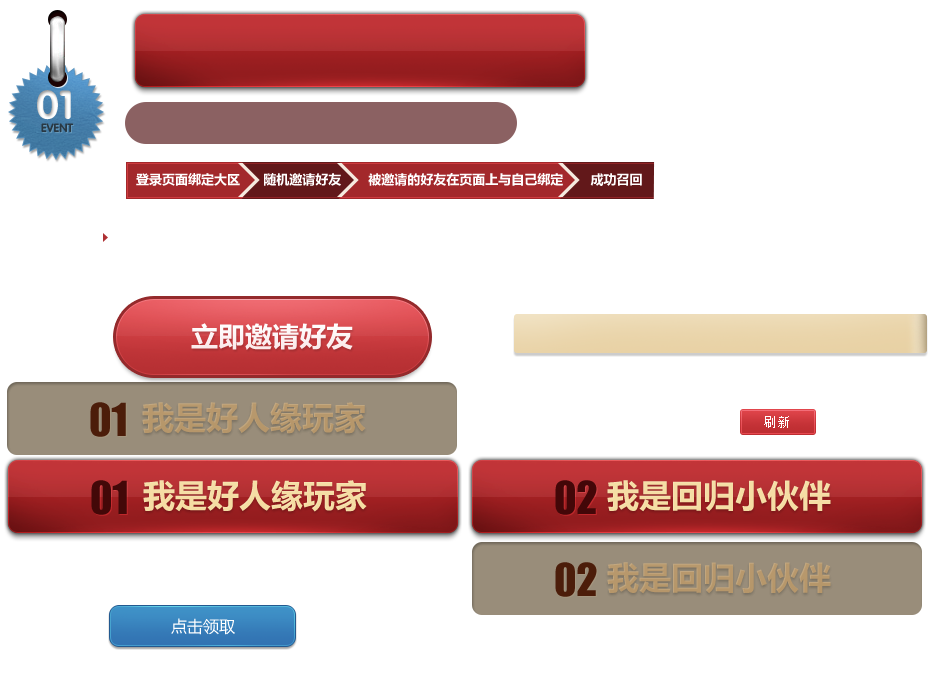
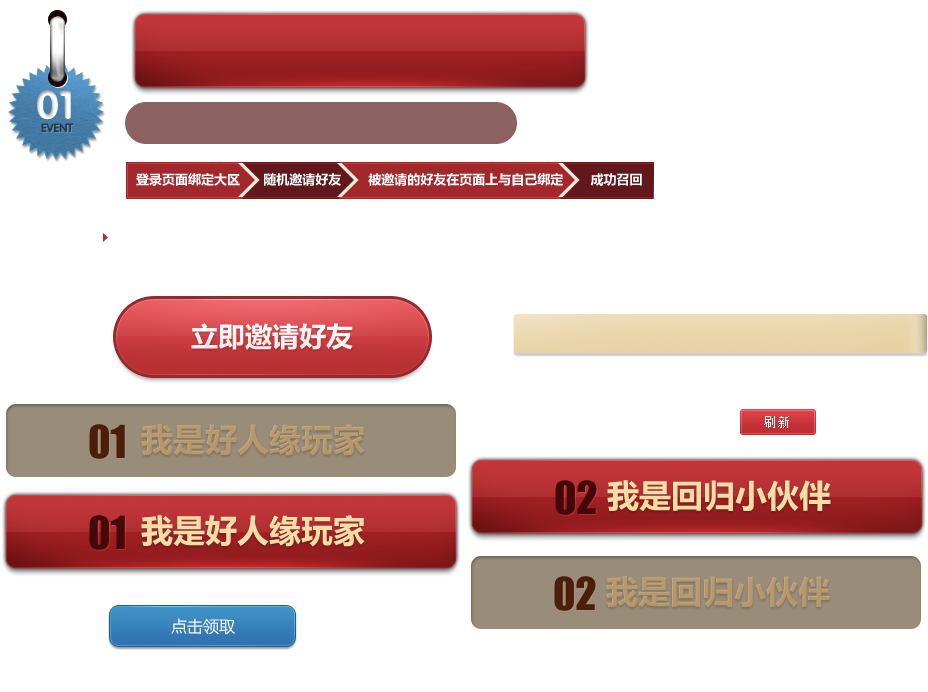
index.html
QQ炫舞人缘大比拼页面重构

Changed region(s): [[0.0, 0.5462, 1.0, 0.9104]]

diff --git a/qqdancer/css/style.css b/qqdancer/css/style.css
@@ -55,7 +55,9 @@
 }
 
 .public-header {
-	float: left;
+	position: absolute;
+	top: 0;
+	left: 0;
 	width: 100%;
 	height: 41px;
 	background-image: url(../images/pulbic-header.jpg);
@@ -65,7 +67,6 @@
 
 .public-footer {
 	position: absolute;
-	*position:static;
 	bottom: 0;
 	width: 100%;
 	height: 108px;
@@ -98,28 +99,8 @@
 	overflow: hidden;
 }
 
-.head-title-text {
-	margin-top: -6px;
-	text-align: center;
-	font-size: 34px;
-	font-weight: bold;
-	letter-spacing: 2px;
-	color: #4b0f11;
-}
-
-.head-title-text .line {
-	display: inline-block;
-	width: 233px;
-	vertical-align: middle;
-	border: 0.1px solid #440e0f;
-}
-
-.head-title-text .txt {
-	margin:0 15px;
-}
-
 .head-title-logo {
-	margin-top: 24px;
+	margin-top: 60px;
 }
 
 .head-title-logo img{
@@ -147,9 +128,11 @@
 	color: #fcf6db;
 }
 
+.btn {
+	position: relative;
+}
+
 .btn1,.btn2 {
-	display: inline-block;
-	margin-top: 18px;
 	width: 264px;
 	height: 75px;
 	text-align: center;
@@ -158,14 +141,15 @@
 }
 
 .btn1 {
+	margin-top: 18px;
 	margin-left: 199px;	
 	background-image: url(../images/btn1.png);
 }
 
-
-
 .btn2 {
-	margin-left: 79px;
+	float: right;
+	*margin-top: 18px;
+	margin-right: 199px;
 	background-image: url(../images/btn2.png);
 }
 
@@ -208,38 +192,41 @@
 .box-head > .box-head-left,.box-head > .box-head-right {
 	position: absolute;
 	margin-top: 18px;	
-	width: 451px;
-	height: 74px;
-	font-size: 30px;
-	font-weight: bold;
-	line-height: 74px;
-	color: #b8986d;
-	text-align: center;
-	background-color: rgba(0,0,0,0.4) !important;
-	filter:progid:DXImageTransform.Microsoft.gradient(startColorstr=#4c000000,endColorstr=#4c000000)\9;
-	border-radius: 10px;
+	width: 458px;
+	height: 86px;
 }
 
 .box-head > .box-head-left {
 	margin-left: 20px;
+	background-image: url(../images/icon1.png);
+	background-repeat: no-repeat;
+	background-position: -6px -404px;
 }
 
 .box-head > .box-head-right {
 	right: 0;
 	margin-right: 22px;
+	background-image: url(../images/icon1.png);
+	background-repeat: no-repeat;
+	background-position: -471px -556px;
 }
 
-.box-head .box-head-num {
-	color: #430708;
-}
-
-.btn-change {
-	color: #f5dda5 !important;
-	width: 458px;
-	height: 86px;
+.btn-change1 {
+	margin-left: 16px !important;
+	margin-top: 15px !important;
+	width: 458px !important;
+	height: 86px !important;
 	background-image: url(../images/icon1.png) !important;
-	background-repeat: no-repeat !important;
-	background-position: -134px -14px !important;
+	background-position: -2px -491px !important;
+}
+
+.btn-change2 {
+	margin-right: 26px !important;
+	margin-top: 15px !important;
+	width: 458px !important;
+	height: 86px !important;
+	background-image: url(../images/icon1.png) !important;
+	background-position: -468px -456px !important;
 }
 
 /*选项1*/
@@ -453,7 +440,7 @@
 }
 
 .dianj > .dianj-left {
-	display: inline-block;
+	display: block;
 	margin-left: 90px;
 	width: 87px;
 	height: 64px;	
@@ -463,9 +450,9 @@
 }
 
 .dianj > .dianj-right {
-	display: inline-block;
-	margin-left: 45px;
-	margin-bottom: 12px;
+	float: right;
+	margin-top: 15px;
+	margin-right: 170px;
 	width: 116px;
 	height: 40px;
 	background-image: url(../images/icon2.png);
@@ -474,13 +461,14 @@
 }
 
 .main2-right-right > .box2 {
+	position: relative;
 	margin-left: -8px;
 	margin-top: 20px;
 	width: 550px;
 }
 
 .box2-pic1, .box2-pic2, .box2-pic3 {
-	display: inline-block;
+	float: left;
 	margin-right: 16px;
 	width: 147px;
 	height: 115px;
@@ -501,6 +489,7 @@
 }
 
 .main2-right-right > .gobtn {
+	float: left;
 	margin-top: 30px;
 	margin-left: -8px;
 	width: 326px;

diff --git a/qqdancer/webpages/index.html b/qqdancer/webpages/index.html
@@ -18,30 +18,27 @@
 							<p class="popup-text1">您是好人缘玩家</p>		
 							<p class="popup-text2">可以邀请好友回归领取奖励!</p>
 						</div>
-						<a id="close" class="close" href=""></a>
+						<input type="button" id="closebtn" class="close"></input>
 					</div>
 					<div class="public-main">
 						<a class="public-head-logo" href="#"><img src="../images/index-head-logo.png" alt="logo"/></a>
 						<div class="public-head-title">
-							<p class="head-title-text">
-								<i class="line"></i>
-									<span class="txt">疯狂的小伙伴去哪了</span>
-								<i class="line"></i>
-							</p>
-							<div class="head-title-logo"><img src="../images/head-title-logo.png" 								alt="text-logo"/> </div>	
-						<div class="head-title-time">
-							<div class="title-time-text">活动时间：2014年1月16日—2014年2月8日</div>
-						</div>
-						<div class="btn">
-							<a id="btn1" class="btn1" href="#"><span class="btn-text">检测自己的属性</span></a>
-							<a class="btn2" href="#"><span class="btn-text">上手机拿点卷</span></a>
-						</div>
-						<p class="login">您好！您还未登录，请先<a href="#">【登录】</a>!</p>
+							<div class="head-title-logo">
+								<img src="../images/head-title-logo.png" alt="text-logo"/> 
+							</div>	
+							<div class="head-title-time">
+								<div class="title-time-text">活动时间：2014年1月16日—2014年2月8日</div>
+									</div>
+							<div class="btn">
+								<a class="btn2" href="#"><span class="btn-text">上手机拿点卷</span></a>
+								<a id="btn1" class="btn1" href="#"><span class="btn-text">检测自己的属性</span></a>	
+							</div>
+							<p class="login">您好！您还未登录，请先<a href="#">【登录】</a>!</p>
 						</div>			
 						<div class="box">
 							<div class="box-head">
-								<a id="box-head-left" class="box-head-left btn-change" href="#"><span class="box-head-num">01</span> 我是好人缘玩家</a>
-								<a id="box-head-right" class="box-head-right" href="#"><span class="box-head-num">02</span> 我是回归小伙伴</a>
+								<a id="box-head-left" class="box-head-left btn-change1" href="#"></a>
+								<a id="box-head-right" class="box-head-right" href="#"></a>
 							</div>
 							<div id="main1" class="box-main clearfix">
 								<div class="box-main-left"></div>
@@ -95,18 +92,19 @@
 											成功同邀请自己回归的好友绑定后，即可100%在页面获得 <b>500点券回归奖励</b>!
 										</p>
 										<div class="dianj">
-											<div class="dianj-left"></div>
 											<a class="dianj-right" href=""></a>
+											<div class="dianj-left"></div>
+											
 										</div>
 										<p class="tipsp3">
 											<span class="iconarrow2"></span>
 											前往回归专区领取回归大奖，5000点券+飞天羽翼+风情十色/魔法少年陪你过新年！
 										</p>
-										<div class="box2">
-											<div class="box2-pic1"></div>
-											<div class="box2-pic2"></div>
-											<div class="box2-pic3"></div>	
-										</div>
+										<ul class="box2">
+											<li class="box2-pic1"></li>
+											<li class="box2-pic2"></li>
+											<li class="box2-pic3"></li>	
+										</ul>
 										<a class="gobtn" href=""></a>
 									</div>
 								</div>

diff --git a/qqdancer/js/index.js b/qqdancer/js/index.js
@@ -1,12 +1,12 @@
 $(function(){
 	$('#box-head-right').click(function() {
-		$(this).addClass("btn-change").siblings().removeClass('btn-change');
+		$(this).addClass("btn-change2").siblings().removeClass('btn-change1');
 		$('#main2').show();
 		$('#main1').hide();
 	});
 	
 	$('#box-head-left').click(function() {
-		$(this).addClass("btn-change").siblings().removeClass('btn-change');
+		$(this).addClass("btn-change1").siblings().removeClass('btn-change2');
 		$('#main1').show();
 		$('#main2').hide();
 	});
@@ -16,7 +16,8 @@ $(function(){
 		$('#popup-color').show();
 	});
 	
-	$('#close').click(function() {
+	$('#closebtn').click(function() {
 		$('#popup-box').hide();
+		$('#popup-color').hide();
 	});
 });
